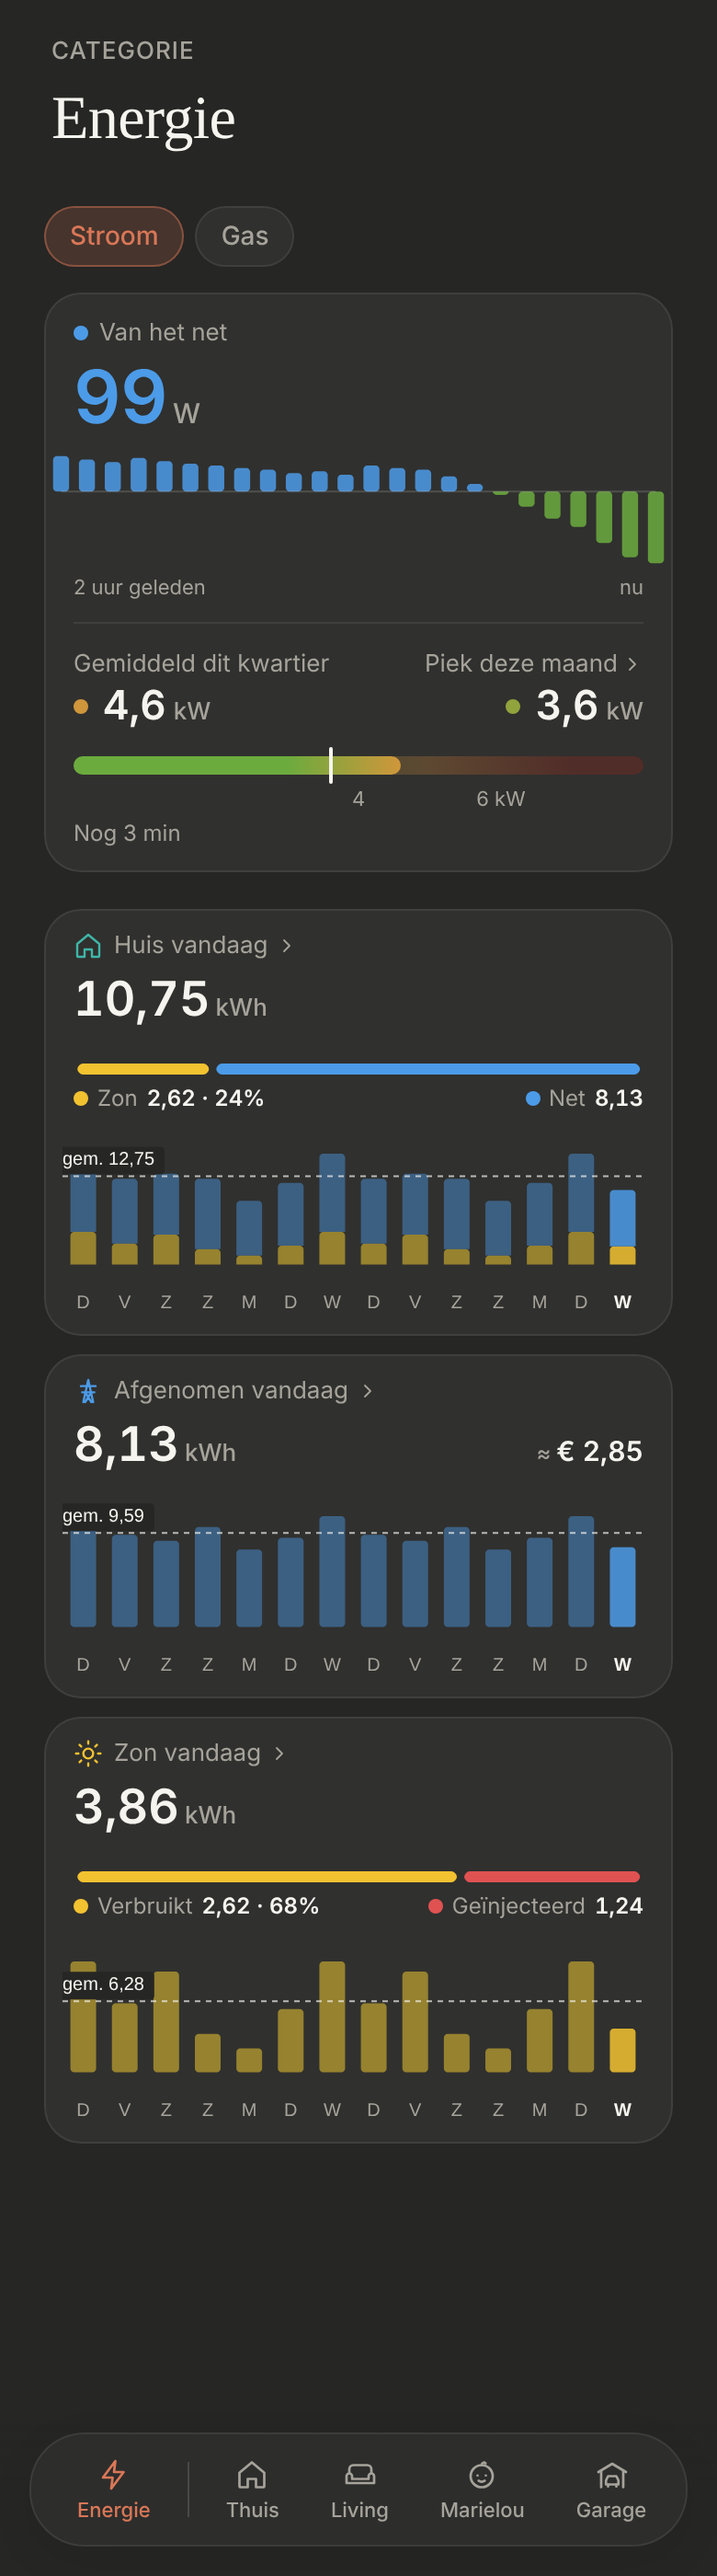
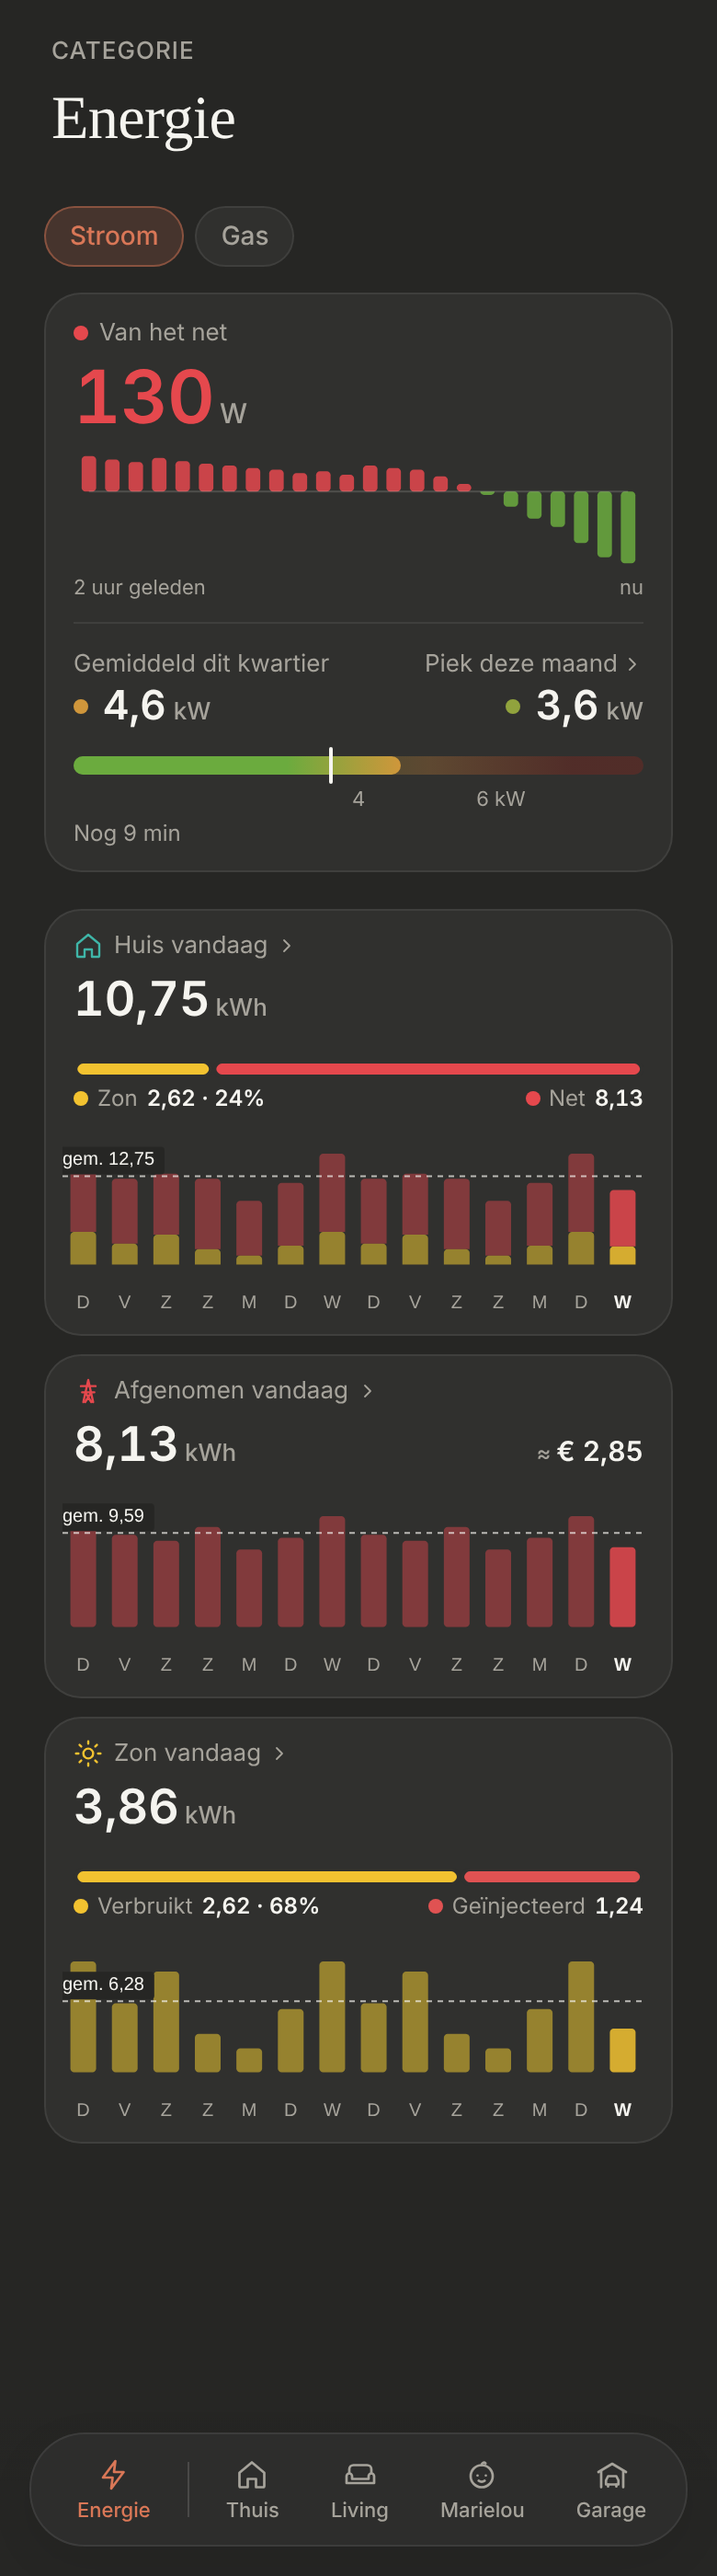
Energie: the grid in red, and the 5-minute bars within the card
Taking from the grid costs money, so it's red now (#e5484d) instead of
blue, everywhere the grid has its colour. The 24 bars under Nu stay
within the card's padding; across the full width the outer ones touched
its edges.

Claude-Session: https://claude.ai/code/session_01KM6EwXvT22zbGn1J5Xot1E

diff --git a/src/styles.css b/src/styles.css
@@ -2031,9 +2031,9 @@ a.pill-button { text-decoration: none; }
 
 .energy-card__value small { margin-left: 3px; font-size: 15px; font-weight: 500; color: var(--text-muted); }
 
-/* The last hour, 12 bars of 5 minutes, across the full width of the card. */
-.energy-card__bars { margin: 6px -16px 0; }
-.energy-card__axis { display: flex; justify-content: space-between; padding: 2px 16px 0; font-size: 11px; color: var(--text-muted); }
+/* The last 2 hours, 24 bars of 5 minutes, within the card's padding (full width, the outer bars touched its edges). */
+.energy-card__bars { margin: 6px 0 0; }
+.energy-card__axis { display: flex; justify-content: space-between; padding: 2px 0 0; font-size: 11px; color: var(--text-muted); }
 
 /* ---------------------------------------------------------------- Energie: Dit kwartier (docs/design/energie-kwartier, K1, V2) */
 

diff --git a/src/config/energy.ts b/src/config/energy.ts
@@ -69,7 +69,7 @@ export const ENERGY_TODAY = {
    */
   alwaysOnPower: Entity.ELECTRICITY_ALWAYS_ON_POWER,
   alwaysOnToday: Entity.ELECTRICITY_ALWAYS_ON_TODAY,
-  /** "Huis vandaag" (docs/design/energie-huis): teal for its icon, apart from net (blue), zon (yellow) and gas (purple); the bars are net and zon. */
+  /** "Huis vandaag" (docs/design/energie-huis): teal for its icon, apart from net (red), zon (yellow) and gas (purple); the bars are net and zon. */
   houseColor: '#3fb6a8',
   /** The chart shows this many days before today, plus today; the dashed line is their average. */
   previousDays: 13,

diff --git a/src/components/energy/EnergyNow.tsx b/src/components/energy/EnergyNow.tsx
@@ -13,7 +13,7 @@ interface Props {
 /**
  * "Nu" on the Energie page (docs/design/energie-nu, option B): what goes
  * through the P1 meter right now, as a number that counts to each new value,
- * in the colour of the bars (blue taking, green feeding back), with the last
+ * in the colour of the bars (red taking, green feeding back), with the last
  * 2 hours as bars of 5 minutes below it (each the average). The top part of the
  * Energie page's card (EnergyPage), without a card of its own.
  */

diff --git a/src/config/statistics.ts b/src/config/statistics.ts
@@ -35,8 +35,8 @@ export interface StatisticTileConfig {
 
 /** The approved colours (docs/design/nutsvoorzieningen), validated together in this order. */
 export const UTILITY_COLORS = {
-  // Blue, like the grid in HA's Energy dashboard (4 November; it was pink #d55181).
-  stroom: '#4c9be8',
+  // Red: taking from the grid costs money (4 November; it was pink #d55181, briefly blue #4c9be8).
+  stroom: '#e5484d',
   zon: '#c98500',
   gas: '#a37cf0',
   feedingBack: '#6bab3e',

diff --git a/docs/design/energie-nu/README.md b/docs/design/energie-nu/README.md
@@ -19,8 +19,8 @@ Only the P1 meter: `sensor.p1_meter_power` (`ENERGY_NOW.gridPower`), positive wh
 ## The card (B)
 
 - *No section title any more:* since S2 ([energie-page](../energie-page/README.md)) this is part of one card for now.
-- **The label:** "Van het net" with a blue dot (`#4c9be8`, pink `#d55181` until 4 November), or "Terug naar het net" with a green dot (`#6bab3e`), following the sign.
-- **The big number** (40px, fixed-width digits), without a minus sign, **in the colour of the bars**: blue while taking, green while feeding back. It **counts** to each new value in 0.4 s and follows every state change (about every 3 s).
+- **The label:** "Van het net" with a red dot (`#e5484d`; pink `#d55181` until 4 November), or "Terug naar het net" with a green dot (`#6bab3e`), following the sign.
+- **The big number** (40px, fixed-width digits), without a minus sign, **in the colour of the bars**: red while taking, green while feeding back. It **counts** to each new value in 0.4 s and follows every state change (about every 3 s).
 - *No "Live" badge any more* (removed on 4 November at the owner's request).
 
 ## The bars
@@ -30,7 +30,7 @@ Only the P1 meter: `sensor.p1_meter_power` (`ENERGY_NOW.gridPower`), positive wh
 - **The newest bar is the last 5 minutes that are over;** the minutes still running are only in the big number.
 - **Refreshed every minute** (`usePeriodicFetch`, also when the app comes back to the foreground), without animation. No subscription: HA has none for statistics, and HACS' apexcharts-card also fetches again, on every state change or a fixed `update_interval`.
 - A 5 minutes without statistics (e.g. while HA restarted) is an empty slot.
-- Under the bars: "1 uur geleden" and "nu". The bars run across the full width of the card, like the Verbruik tiles' lines.
+- Under the bars: "2 uur geleden" and "nu". The bars stay within the card's padding (4 November; across the full width, the outer bars of 24 touched the card's edges).
 - ApexCharts bar chart (`apexcharts/bar`, plus `apexcharts/features/annotations` for the zero line), each bar's colour set from its sign.
 
 ## Reduce motion

diff --git a/docs/design/energie-huis/README.md b/docs/design/energie-huis/README.md
@@ -16,8 +16,8 @@ The approved mockup: [`mockup.png`](./mockup.png) ([`mockup.html`](./mockup.html
 
 - **The shared [day tile](../day-tile/README.md):** "Huis vandaag ›", house icon in **teal** `#3fb6a8` (chosen 4 November; it was a neutral light `#d8d2c4`), in kWh with two decimals. Above "Afgenomen vandaag" and "Zon vandaag", which stay as they are.
 - **The value:** taken from the grid + own solar, where own solar = Smappee's solar − the P1 meter's injected (never below 0, as the two meters measure apart).
-- **The split bar** (`SplitBar`, ApexCharts): own solar in yellow, the grid in blue, as wide as their shares. Under it "Zon 2,62 · 24%" and "Net 8,13". Not shown before anything was used today.
-- **The 14 days:** each day's bar stacked, own solar at the bottom (yellow), the grid on top (blue); today in the full colours, the days before darker. The dashed line is the average house total of the days before. From the daily statistics of the three sensors (taken, solar, injected), fetched again every 5 minutes; a day without solar statistics counts no own solar.
+- **The split bar** (`SplitBar`, ApexCharts): own solar in yellow, the grid in red, as wide as their shares. Under it "Zon 2,62 · 24%" and "Net 8,13". Not shown before anything was used today.
+- **The 14 days:** each day's bar stacked, own solar at the bottom (yellow), the grid on top (red); today in the full colours, the days before darker. The dashed line is the average house total of the days before. From the daily statistics of the three sensors (taken, solar, injected), fetched again every 5 minutes; a day without solar statistics counts no own solar.
 - **The Huis sheet** (`HouseSheet.tsx`, built 4 November without a design first): "Huis", "Vandaag 10,75 kWh, van de zon en van het net.", the figures **Zon** and **Net** with their share of the house, and the **Sluipverbruik** (`AlwaysOnSection`, Smappee's always-on), moved here from Afgenomen: it's what the house uses, from the grid or the sun.
 - Without Smappee or the P1 meter's injecting, there's no Huis tile.
 

diff --git a/docs/design/energie-sheets/README.md b/docs/design/energie-sheets/README.md
@@ -29,7 +29,7 @@ A tap anywhere on the day tile (`DayTile`'s `onOpen`). A small "›" right after
 
 No "Goed om te weten" sections and no explanatory paragraph under the sluipverbruik (removed at the owner's request, 4 November).
 
-- **Afgenomen** (`sensor.p1_meter_energy_consumption_daily`, blue): only the shared sections. Its **Sluipverbruik** moved to the [Huis sheet](../energie-huis/README.md) (4 November): it's what the house uses, not only what came from the grid. There it's Smappee's always-on (`sensor.garage_smappee_always_on_active_power`, the lowest power of the last 2 days, with what that is per year at €0,35 per kWh) and what it used today (`sensor.garage_smappee_always_on_today`, in kWh, with ≈ €). Before, it was the lowest hour of the P1 meter last night, which assumed everyone asleep and no sun.
+- **Afgenomen** (`sensor.p1_meter_energy_consumption_daily`, red): only the shared sections. Its **Sluipverbruik** moved to the [Huis sheet](../energie-huis/README.md) (4 November): it's what the house uses, not only what came from the grid. There it's Smappee's always-on (`sensor.garage_smappee_always_on_active_power`, the lowest power of the last 2 days, with what that is per year at €0,35 per kWh) and what it used today (`sensor.garage_smappee_always_on_today`, in kWh, with ≈ €). Before, it was the lowest hour of the P1 meter last night, which assumed everyone asleep and no sun.
 - **Zon** (Smappee, yellow, no €): **Waar ging je zon heen vandaag:** used and injected (the P1 meter), each with its share, and what the solar used yourself saved at the price of taking.
 - **Gas** (purple): only the shared sections.
 

diff --git a/docs/design/energie-vandaag/README.md b/docs/design/energie-vandaag/README.md
@@ -16,7 +16,7 @@ The earlier options (A: three tiles, B: a list, C: a balance, D: four tiles with
 
 | Tile | Icon | Sensor | Price |
 |---|---|---|---|
-| **Afgenomen** (taken from the grid) | pylon, blue `#4c9be8` (pink `#d55181` until 4 November) | `sensor.p1_meter_energy_consumption_daily` | what taking costs per kWh |
+| **Afgenomen** (taken from the grid) | pylon, red `#e5484d` (pink `#d55181` until 4 November) | `sensor.p1_meter_energy_consumption_daily` | what taking costs per kWh |
 | **Teruggeleverd** (fed back) | sun, green `#6bab3e` | `sensor.p1_meter_energy_production_daily` | what feeding back earns per kWh |
 
 - In kWh with two decimals, straight from the sensors' states (live). The colours are the ones of the Nu card.

diff --git a/docs/design/nutsvoorzieningen/README.md b/docs/design/nutsvoorzieningen/README.md
@@ -52,7 +52,7 @@ The dark steps from the dataviz reference palette, validated on surface `#30302e
 
 | Utility | Color |
 |---|---|
-| Stroom | `#4c9be8` (blue; magenta `#d55181` until 4 November) |
+| Stroom | `#e5484d` (red: it costs money; magenta `#d55181` until 4 November) |
 | Zon | `#c98500` (yellow) |
 | Water | `#3987e5` (blue) |
 | Gas | `#a37cf0` (purple; was aqua green `#199e70`, changed with Energie's gas) |
